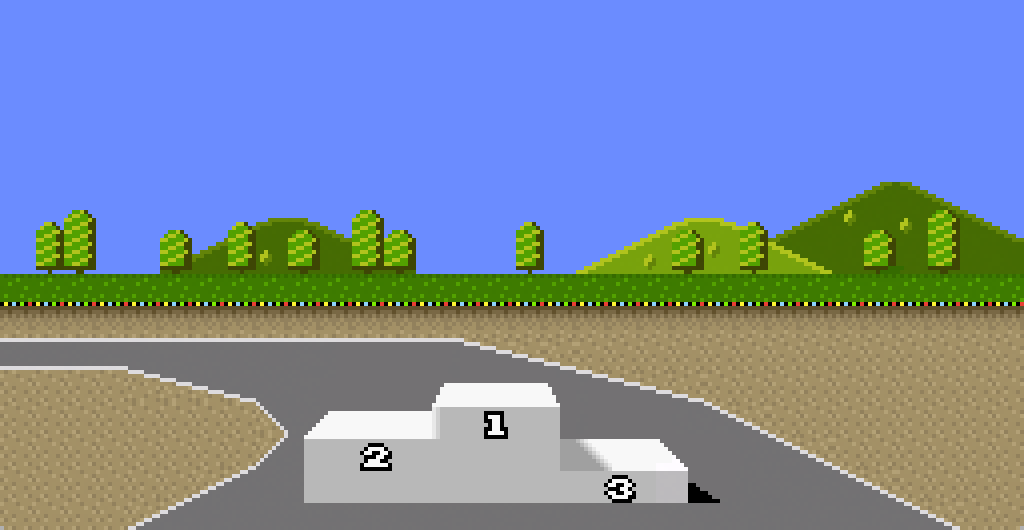
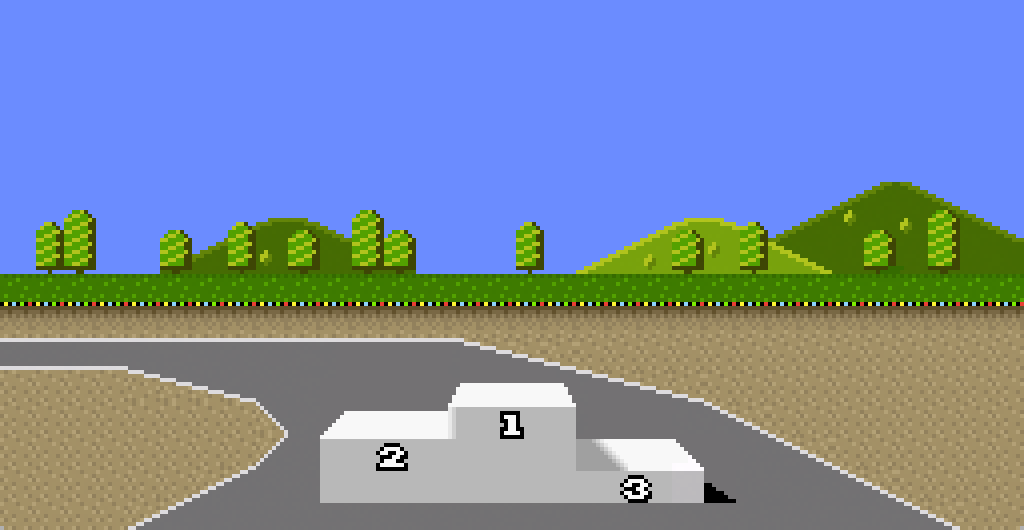
adjusted positions for podium sprites

Changed region(s): [[0.3438, 0.7245, 0.7188, 0.966], [0.2812, 0.7547, 0.3438, 0.966]]

diff --git a/frontend/src/assets/stylesheets/podium.css b/frontend/src/assets/stylesheets/podium.css
@@ -16,17 +16,17 @@
 
 #first-place {
   top: 283px;
-  left: 440px;
+  left: 456px;
 }
 
 #second-place {
   top: 315px;
-  left: 323px;
+  left: 337px;
 }
 
 #third-place {
   top: 348px;
-  left: 561px;
+  left: 577px;
 }
 /* 
 #fourth-place {
